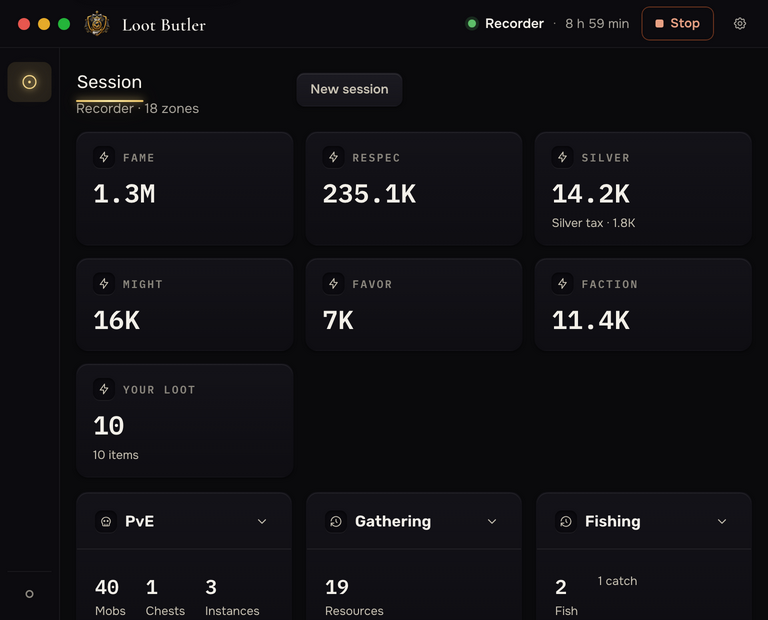
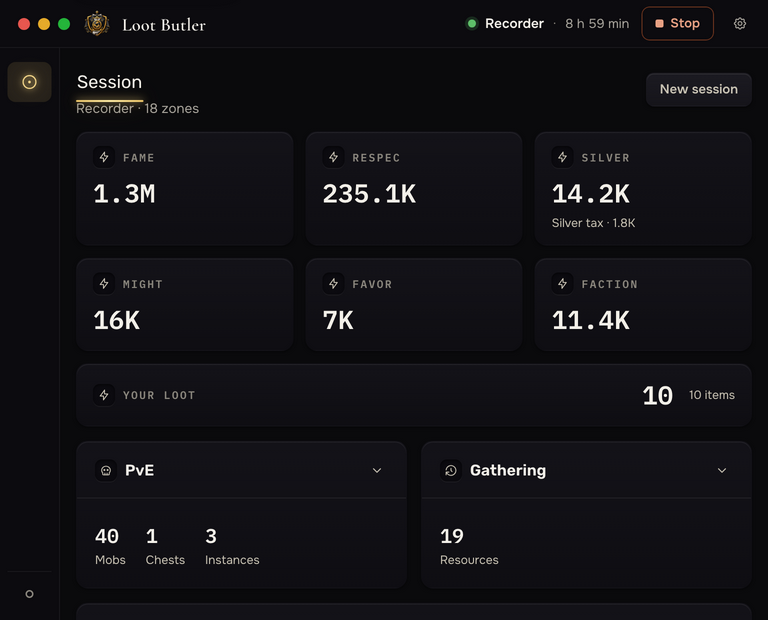
fix: reflow narrow Session layouts

diff --git a/src/app/shell.css b/src/app/shell.css
@@ -804,6 +804,7 @@ body {
 }
 .lb-head-titles {
   display: flex;
+  flex: 1;
   align-items: center;
   column-gap: 18px;
   min-width: 0;
@@ -1982,11 +1983,12 @@ body {
   gap: 14px;
 }
 .lb-stats {
-  display: grid;
-  grid-template-columns: repeat(auto-fit, minmax(178px, 1fr));
+  display: flex;
+  flex-wrap: wrap;
   gap: 12px;
 }
 .lb-stat {
+  flex: 1 1 178px;
   min-width: 0;
   padding: 14px 16px;
   border-radius: 12px;
@@ -2008,6 +2010,20 @@ body {
   margin-top: 6px;
   font-size: var(--gb-text-caption);
   color: var(--gb-ink-2);
+}
+/* Quantity has no price yet. Keep its shorter readout on one row rather than leave a
+   seventh currency-sized tile alone above the activity cards. */
+.lb-stat[data-session-metric="loot"] {
+  display: flex;
+  flex-basis: 100%;
+  align-items: center;
+  gap: 16px;
+}
+.lb-stat[data-session-metric="loot"] .lb-stat-value {
+  margin: 0 0 0 auto;
+}
+.lb-stat[data-session-metric="loot"] .lb-stat-detail {
+  margin: 0;
 }
 .lb-activity-cards {
   display: grid;
@@ -2188,7 +2204,7 @@ body {
 }
 .lb-feed li {
   display: grid;
-  grid-template-columns: 46px minmax(0, 1fr);
+  grid-template-columns: max-content minmax(0, 1fr);
   gap: 12px;
   padding: 9px 0;
   border-bottom: 1px solid var(--gb-card-rule);
@@ -2200,6 +2216,7 @@ body {
 .lb-feed time {
   font-family: var(--gb-font-mono);
   color: var(--gb-ink-2);
+  white-space: nowrap;
 }
 .lb-feed li > span {
   overflow-wrap: anywhere;
@@ -2244,14 +2261,25 @@ body {
   gap: 8px;
   flex: none;
 }
-@media (max-width: 1279px) {
+@media (min-width: 1024px) and (max-width: 1439px) {
+  .lb-stat {
+    flex-basis: calc((100% - 36px) / 4);
+  }
+}
+@media (min-width: 1024px) and (max-width: 1279px) {
   .lb-sources {
     grid-template-columns: minmax(0, 1fr);
   }
 }
 @media (max-width: 1023px) {
-  .lb-stats {
-    grid-template-columns: repeat(3, minmax(0, 1fr));
+  .lb-stat {
+    flex-basis: calc((100% - 24px) / 3);
+  }
+  .lb-activity-cards {
+    grid-template-columns: repeat(2, minmax(0, 1fr));
+  }
+  .lb-activity-cards > :last-child:nth-child(odd) {
+    grid-column: 1 / -1;
   }
   .lb-head {
     flex-wrap: wrap;

diff --git a/src/app/PageHeader.tsx b/src/app/PageHeader.tsx
@@ -10,7 +10,7 @@ import type { TStrings } from "../shared/strings.js";
  * beside the tabs from 1280 up, under them below.
  *
  * In slice 0 the only range is Session: Today and 7 days need History, which is not built yet.
- * Actions at the right appear only when they do something, and none does yet.
+ * Slice 1 puts New session at the right; it stays beside the title at the minimum width.
  */
 
 /** The id of the region the tab controls (Shell.tsx). */

diff --git a/docs/design/session-proof.md b/docs/design/session-proof.md
@@ -7,14 +7,14 @@ Architecture and verification: [Session](../session.md).
 | Approved board | Built status | Remaining gaps |
 | --- | --- | --- |
 | F1 | Observed currency tiles, activity cards, sources, loot, places, chests, feed, New session | R5 item values and comparisons; rates, party, journals and other pages belong to later slices |
-| F1r1024 / F1r768 | Rail and responsive columns retained; real data measured at 1024 / 768 | Native Windows/assistive technology verification pending |
+| F1r1024 / F1r768 | Rail and responsive columns; at 768, two activity columns and side-by-side sources, with rows filling the width | Native Windows/assistive technology verification pending |
 | F1n | Before-data face retained after a successful reset | History/export/share controls await their slices |
 
 The recording contains currencies not present in the board's example: silver and
-faction points also get tiles. Loot shows a quantity while values are unavailable.
+faction points also get tiles. Loot shows a compact quantity row while values are unavailable.
 A dynamic dungeon is called Dungeon: its UUID cannot tell solo from group. The
 recorded elapsed evening includes time between the two engine runs. The page
-scrolls to retain every observed place; the screenshots below show its three
+scrolls to retain every observed place; the screenshots below show its different
 positions. Item art is a deterministic one-pixel PNG stub in these proofs;
 the official protocol/cache has independent tests. OS caption controls are marked
 stand-ins and the stub's version says v0.0.0.
@@ -36,6 +36,10 @@ Parchment, 1440 × 900:
 Obsidian, 768 × 620:
 
 ![Session at 768](session/obsidian-768.png)
+
+Sources and recent loot at 768 × 620, after scrolling:
+
+![Sources at 768](session/sources-768.png)
 
 Recent loot and feed, after scrolling:
 

diff --git a/docs/session.md b/docs/session.md
@@ -82,6 +82,12 @@ Instance IDs count known dungeon visits without guessing dungeon size. Sources
 use the same totals as their tiles. Cards can fold from the keyboard. Six locales
 use the existing plural rules, including Ukrainian/Russian few and many.
 
+At 768 × 620, currency tiles wrap in three columns and the unpriced loot quantity
+uses a compact full-width row. Activity summaries use two columns, with an odd last
+card filling its row. Fame and silver sources remain side by side after the main
+columns stack; New session stays at the right of the header. Feed timestamps take
+their natural width so the OS's 12-hour format stays on one line.
+
 R5's public price endpoint does not exist yet. Loot/resource/catch item values,
 value rates, comparisons, party, journals, PvP and other pages wait for their own
 slices. Recent loot explicitly says Not priced. Only Session is in the sidebar;
@@ -101,7 +107,8 @@ checks the real IPC, page, New session, persisted summaries, Stop, active quit, 
 warning even when every new line is refused, and absence of
 bot traffic. `pnpm check:layout:v5` adds replay-active, stopped, and New session
 states to every width/theme/locale/platform combination; it checks the rendered
-raw totals and counts as well as geometry and CSP. `pnpm check:layout` keeps the
+raw totals and counts as well as geometry, row packing, narrow activity/source
+composition, timestamp wrapping and CSP. `pnpm check:layout` keeps the
 old renderer's gate intact.
 
 `ONLY=session OUT=<folder> pnpm exec electron --no-sandbox tools/shell-shots.cjs`

diff --git a/README.md b/README.md
@@ -569,6 +569,8 @@ widths, in both themes, the six languages and both platforms — 1,728 more, fro
 on the bar. 5,568 in all. The three new states replay the scrubbed evening while capturing,
 after Stop, and after New session, with rendered raw-total/count assertions in every locale. It fails on:
 
+- Session rows leaving unused space, a misplaced New session button, narrow activity cards,
+  stacked source cards at 768, or feed timestamps wrapping onto two lines;
 - sideways scroll — the window, or anything in it that scrolls, wider than it is;
 - clipped text — words cut by a box that hides its overflow, or past the window's edge. Two cuts are
   the design's and pass while they end in "…" with the whole text in a title: a device's name in
